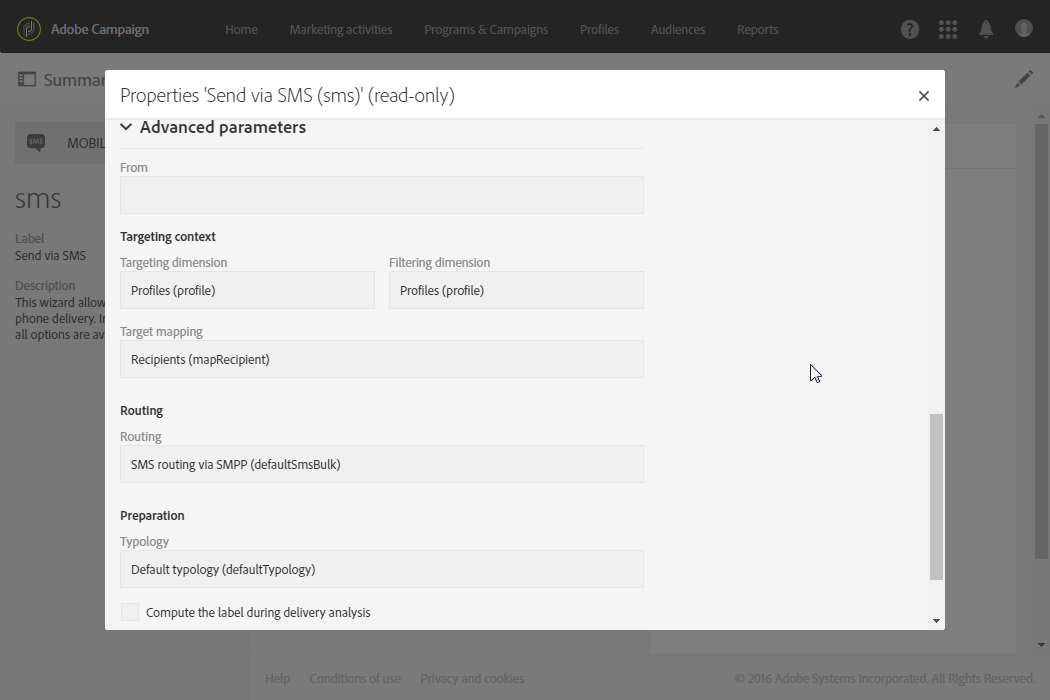
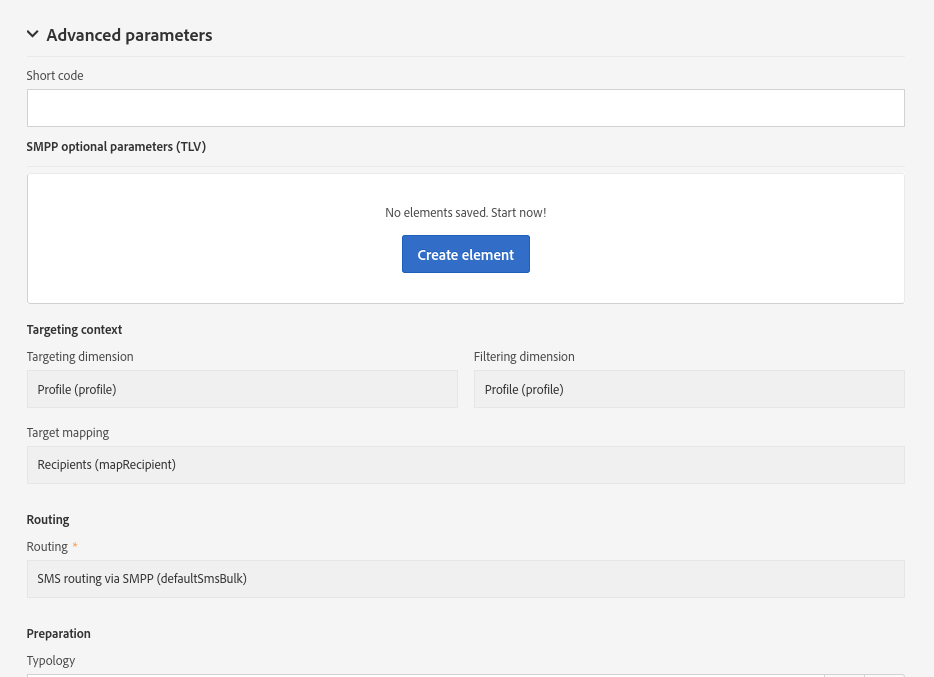
update DOCAC-6355

diff --git a/help/administration/using/configuring-sms-channel.md b/help/administration/using/configuring-sms-channel.md
@@ -326,15 +326,11 @@ The specific parameters for sending SMS messages are regrouped in the **[!UICONT
 
 From the **[!UICONTROL Advanced parameters]** section:
 
-* The **[!UICONTROL From]** option allows you to personalize the name of the SMS message sender using a string of characters. This is the name that will appear as the sender name of the SMS message on the recipient's mobile telephone.
+* The **[!UICONTROL Short code]** allows you to add a specific short-code to your delivery. Recipients who opted-out of this specific short code will be automatically excluded during the message preparation. For more information on how to configure short code, refer to [this section](../../channels/using/managing-incoming-sms.md).
 
-  If this field is empty, then it will be the source number provided in the external account that will be used. If no source number is provided, it will be the short code that will be used. The external account specific to SMS delivery is presented in the [Defining an SMS routing](#defining-an-sms-routing) section.
-
-  ![](assets/sms_smpp_2.png)
-
-  >[!IMPORTANT]
+  >[!NOTE]
   >
-  >Please check the legislation in your country regarding modifying the sender address. You should also check with your SMS service provider to see whether they offer this functionality.
+  >If the **[!UICONTROL Short code]** field is left empty, the value of the **[!UICONTROL Short code]** field set in the external account will be used.
 
 From the **[!UICONTROL Send]** section of an SMS template:
 

diff --git a/help/channels/using/personalizing-sms-messages.md b/help/channels/using/personalizing-sms-messages.md
@@ -32,4 +32,15 @@ Here we take a sample SMS message containing personalization fields which, depen
 
 ## SMS sender {#sms-sender}
 
-You can personalize the name of the SMS sender. For more on this, refer to the [SMS configuration](../../administration/using/configuring-sms-channel.md#configuring-sms-properties) section.
+>[!IMPORTANT]
+>
+>Please check the legislation in your country regarding modifying the sender address. You should also check with your SMS service provider to see whether they offer this functionality.
+
+The **[!UICONTROL From]** option allows you to personalize the name of the SMS message sender using a string of characters. This is the name that will appear as the sender name of the SMS message on the recipient's mobile telephone.
+
+If this field is empty, then it will be the source number provided in the external account that will be used. If no source number is provided, it will be the short code that will be used. The external account specific to SMS delivery is presented in the [Defining an SMS routing](../../administration/using/configuring-sms-channel.md#defining-an-sms-routing) section.
+
+  ![](assets/sms_creation_8.png)
+
+
+

diff --git a/help/channels/using/managing-incoming-sms.md b/help/channels/using/managing-incoming-sms.md
@@ -53,6 +53,10 @@ To do so:
 
    ![](assets/sms_mo.png)
 
+1. Click **[!UICONTROL Save]**. 
+
+1. From the **[!UICONTROL Advanced parameters]** of your SMS delivery **[!UICONTROL Properties]**, you can set a specific **[!UICONTROL Short code]** to automatically exclude recipients who opted-out. For more information on this, refer to [this section](../../administration/using/configuring-sms-channel.md#configuring-sms-properties).
+
 Your recipients can now be automatically unsubscribed to your messages and sent to quarantine with this automatic reply. The quarantined recipients are listed in the **[!UICONTROL Addresses]** table available through the **[!UICONTROL Administration]** > **[!UICONTROL Channels]** > **[!UICONTROL Quarantines]** menu. For more information on quarantines, refer to this [section](../../sending/using/understanding-quarantine-management.md).
 
 These incoming SMS can be stored if needed. For more information on this, refer to this [section](#storing-incoming-sms).
